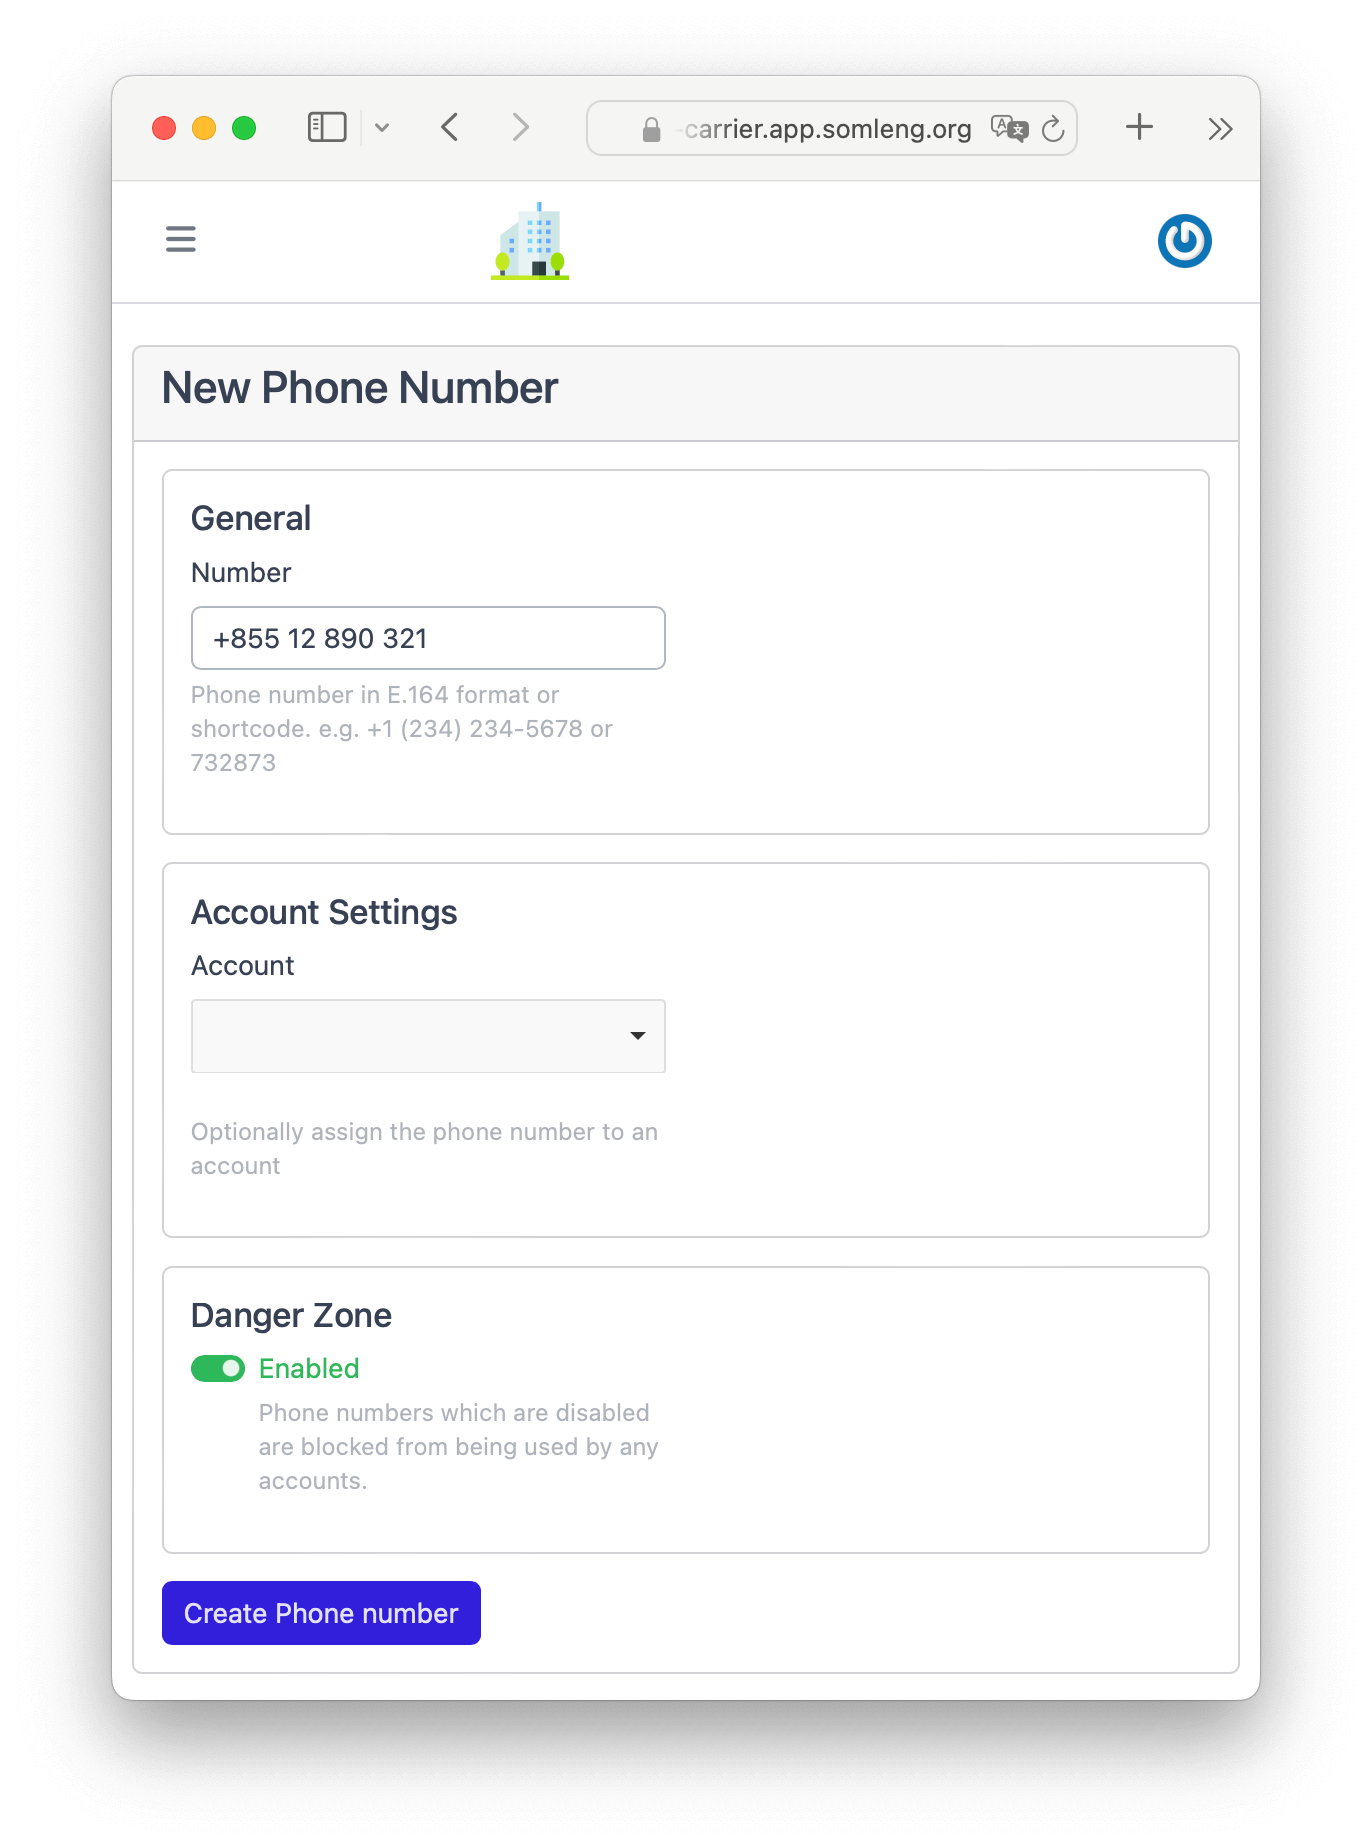
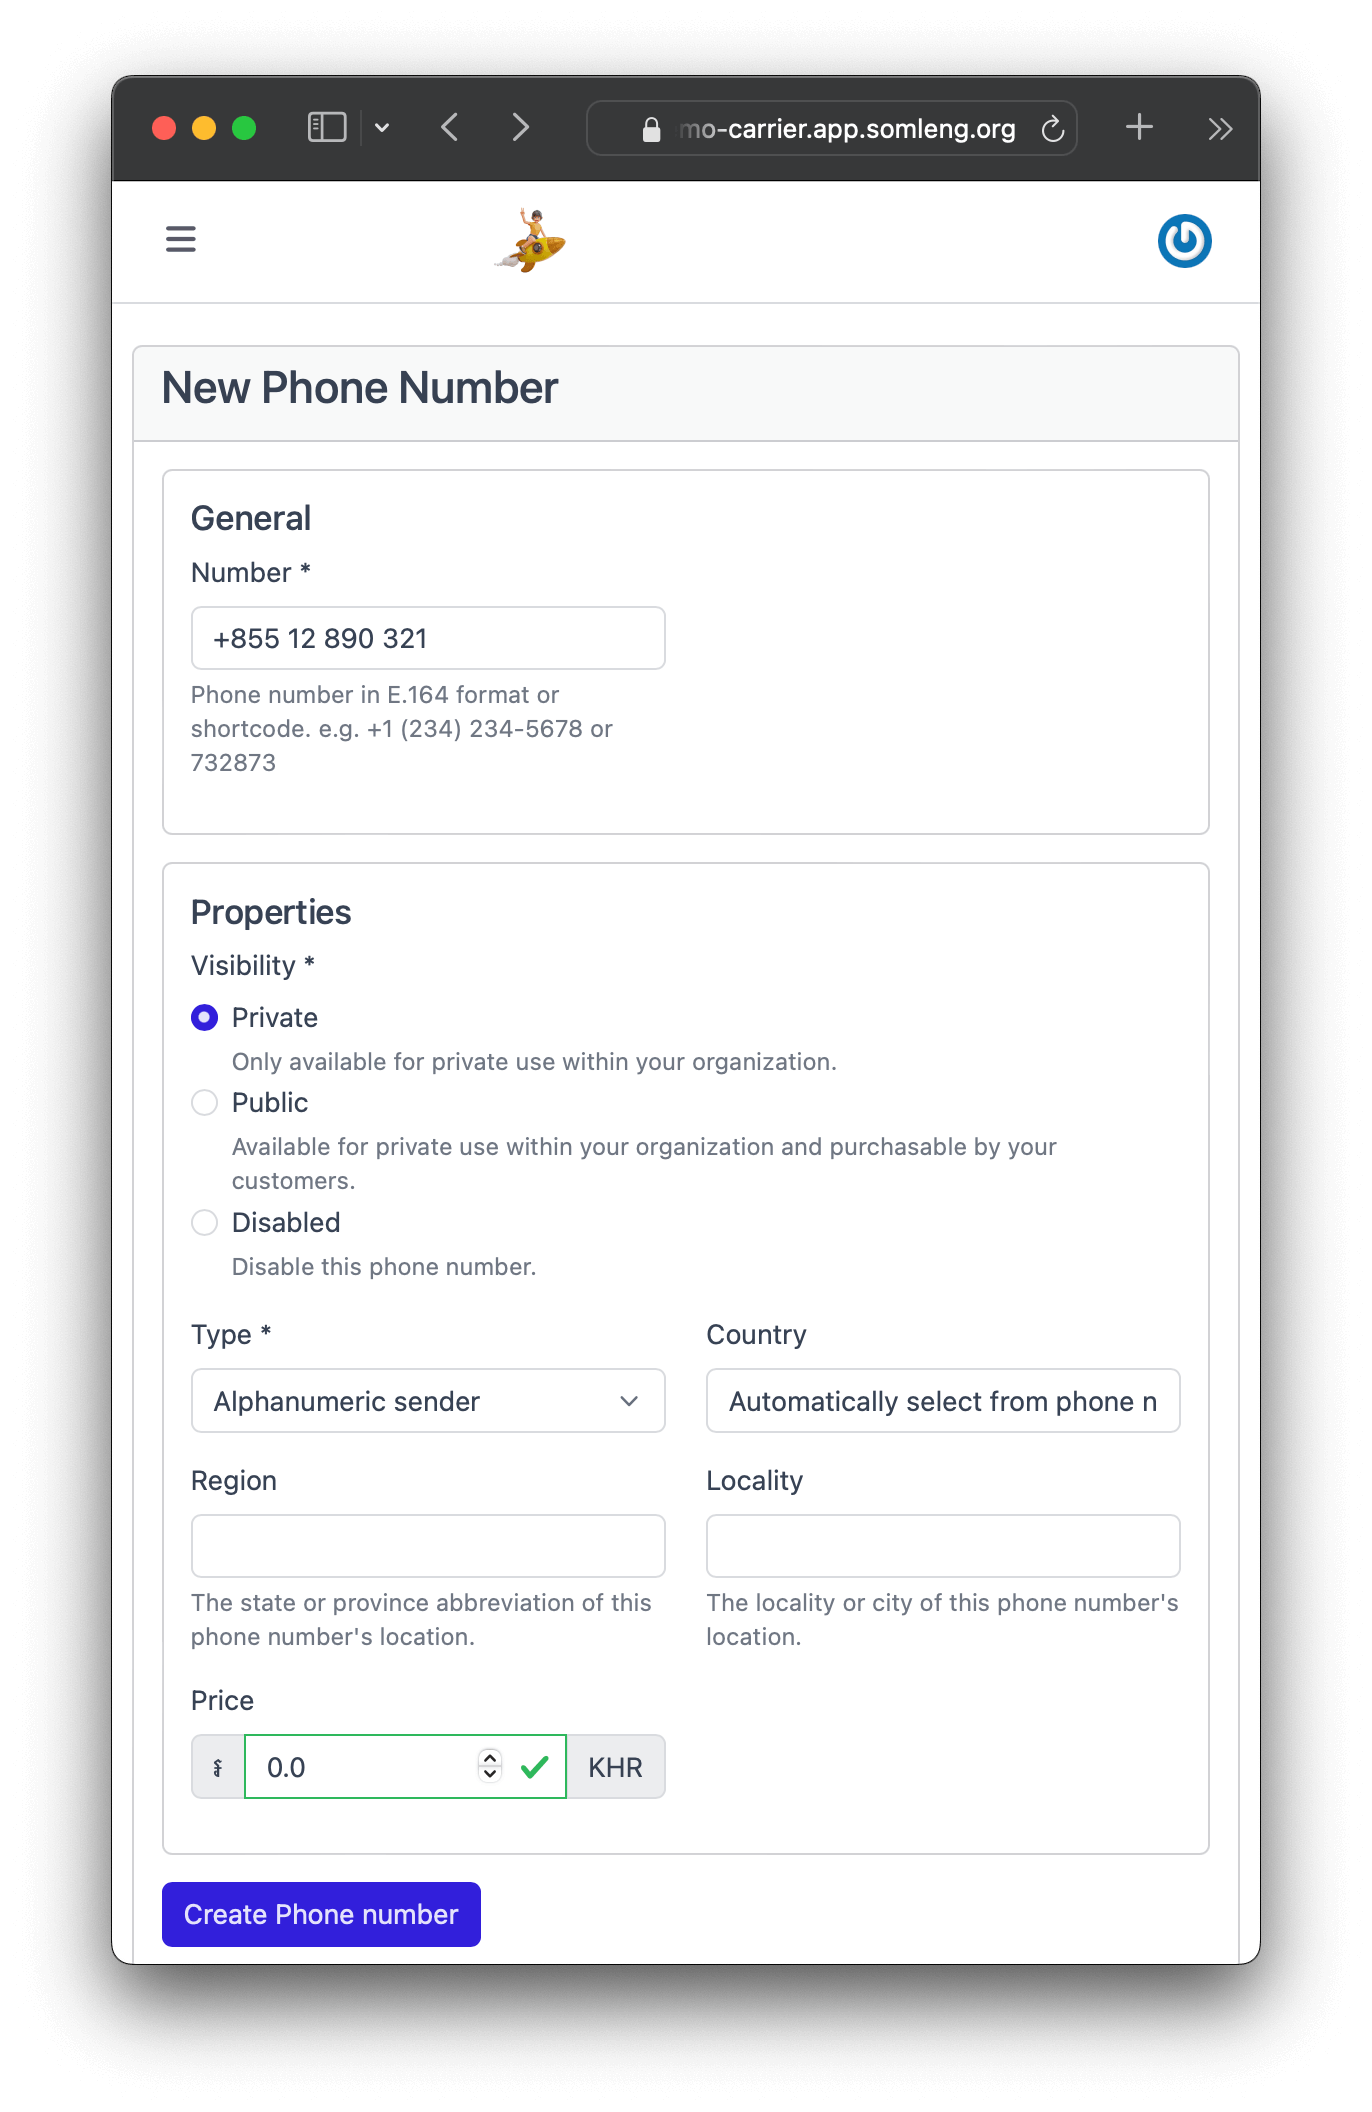
Update verify tutorial

diff --git a/public/website/docs.html b/public/website/docs.html
@@ -451,8 +451,9 @@
                   </h4>
 
                   <p>
-                    In this step you create a new phone number. This number will be
-                    used to send out verification codes. One phone number can be used to send out verification codes
+                    In this step you create a new alphanumeric sender. This number will be
+                    used to send out verification codes. The alphanumeric sender can be used to send out verification
+                    codes
                     across multiple customer accounts, so there is no need to assign it to the customer account.
                   </p>
 
@@ -462,13 +463,20 @@
 
                   <ol type="a">
                     <li>
-                      Under the <strong>Phone Numbers</strong> menu, click the <strong><i
-                          class="fas fa-plus"></i></strong> icon to create a new phone number.
+                      Under the <strong>Phone Numbers</strong> menu, click <strong>Inventory</strong> then the
+                      <strong><i class="fas fa-plus"></i></strong> icon to create a new phone number.
                     </li>
                     <li>
-                      Enter a <strong>number</strong>. It can be a short-code or a full phone number in
+                      Enter a <strong>number</strong>. The alphanumeric sender can be a short-code or a full phone
+                      number in
                       <a href="https://en.wikipedia.org/wiki/E.164" class="link">E.164 format <i
                           class="fas fa-external-link"></i></a>.
+                    </li>
+                    <li>
+                      Under <strong>Properties</strong> select <strong>Private</strong>.
+                    </li>
+                    <li>
+                      Under Type, choose <strong>Alphanumeric sender</strong>.
                     </li>
                     <li>
                       Press <strong>Create Phone number</strong>.
@@ -2163,8 +2171,8 @@ client.verify.v2.services(verificationServiceSid)
                         <td>Required</td>
                         <td>The type of phone number</td>
                         <td>
-                          One of either <code>local</code>, <code>mobile</code>, <code>toll_free</code> or
-                          <code>short_code</code>
+                          One of either <code>local</code>, <code>mobile</code>, <code>toll_free</code>,
+                          <code>short_code</code>, or <code>alphanumeric_sender_id</code>
                         </td>
                         <td>local</td>
                       </tr>
